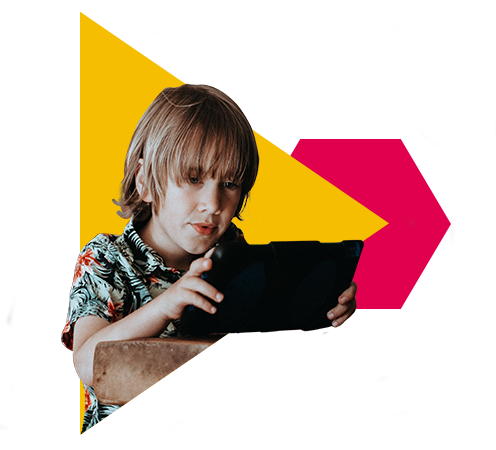
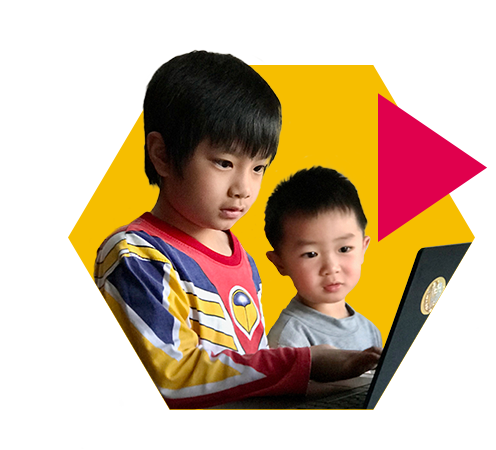
fix: update play pic and some pos

diff --git a/portal/static/portal/sass/modules/_colours.scss b/portal/static/portal/sass/modules/_colours.scss
@@ -78,7 +78,7 @@ $color-onboarding-step-in-progress-text: $color-text-gray;
 $color-onboarding-step-todo-background: $color-text-gray;
 $color-onboarding-step-todo-text: #ffffff;
 // Tables
-$color-table-header-primary: $color-teacher-blue;
+$color-table-header-primary: #6e7171;
 $color-table-header-secondary: $color-text-gray;
 $color-table-border: #9b9b9b;
 // Backgrounds

diff --git a/portal/static/portal/sass/partials/_banners.scss b/portal/static/portal/sass/partials/_banners.scss
@@ -128,10 +128,12 @@
 
 .banner--homepage {
   height: calc(100vh - #{$menu-height});
-  min-height: 750px;
+  max-height: 750px;
   display: flex;
   justify-content: center;
+  text-align: center;
   align-items: center;
+  padding-bottom: 30px;
 
   p {
     @include _font-size(22px);
